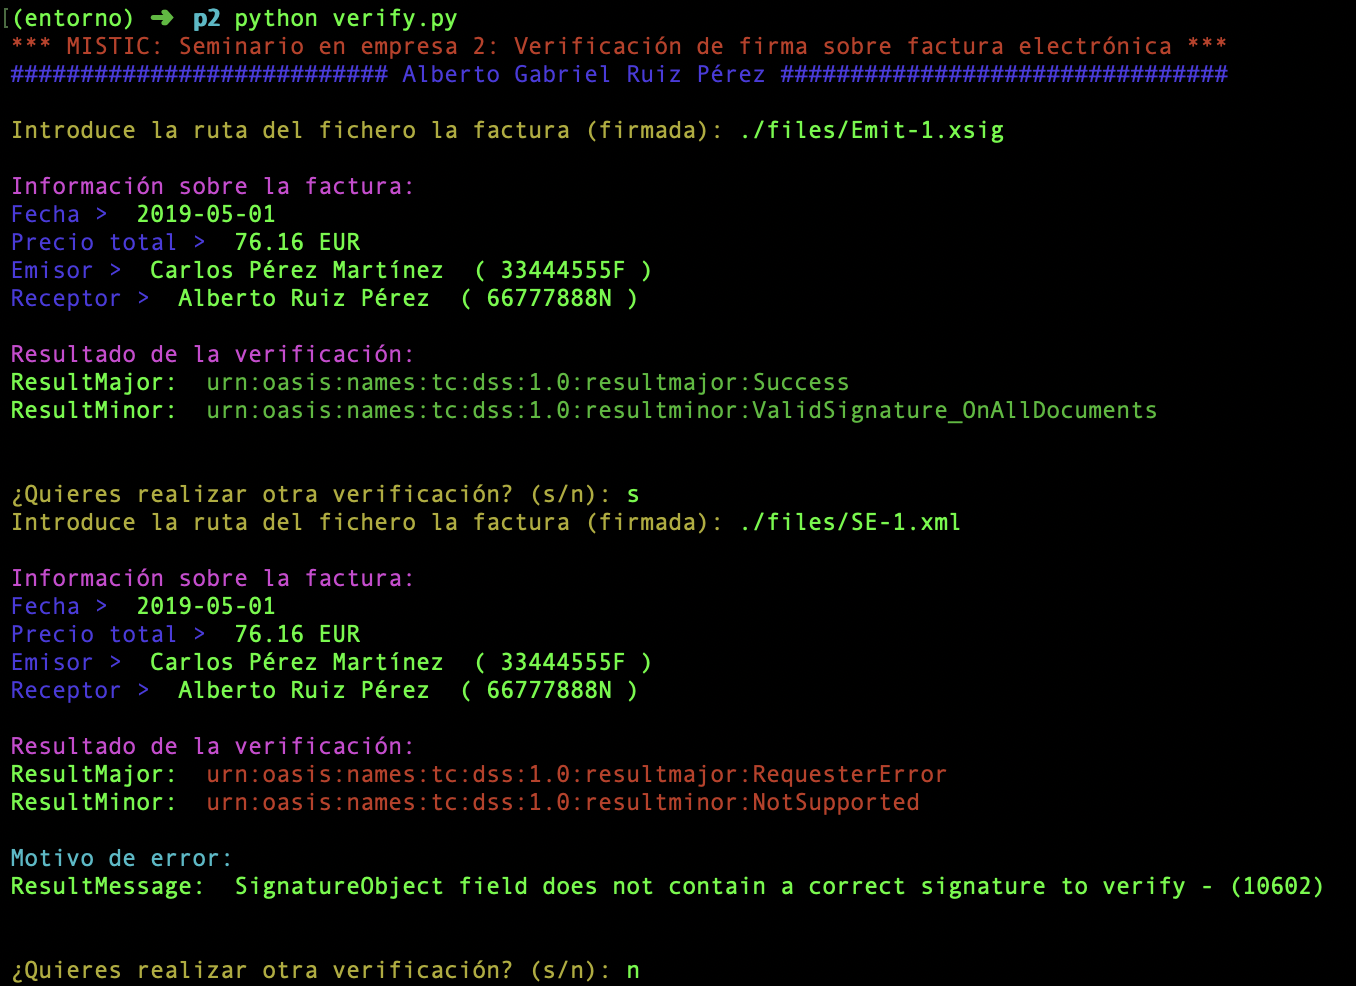
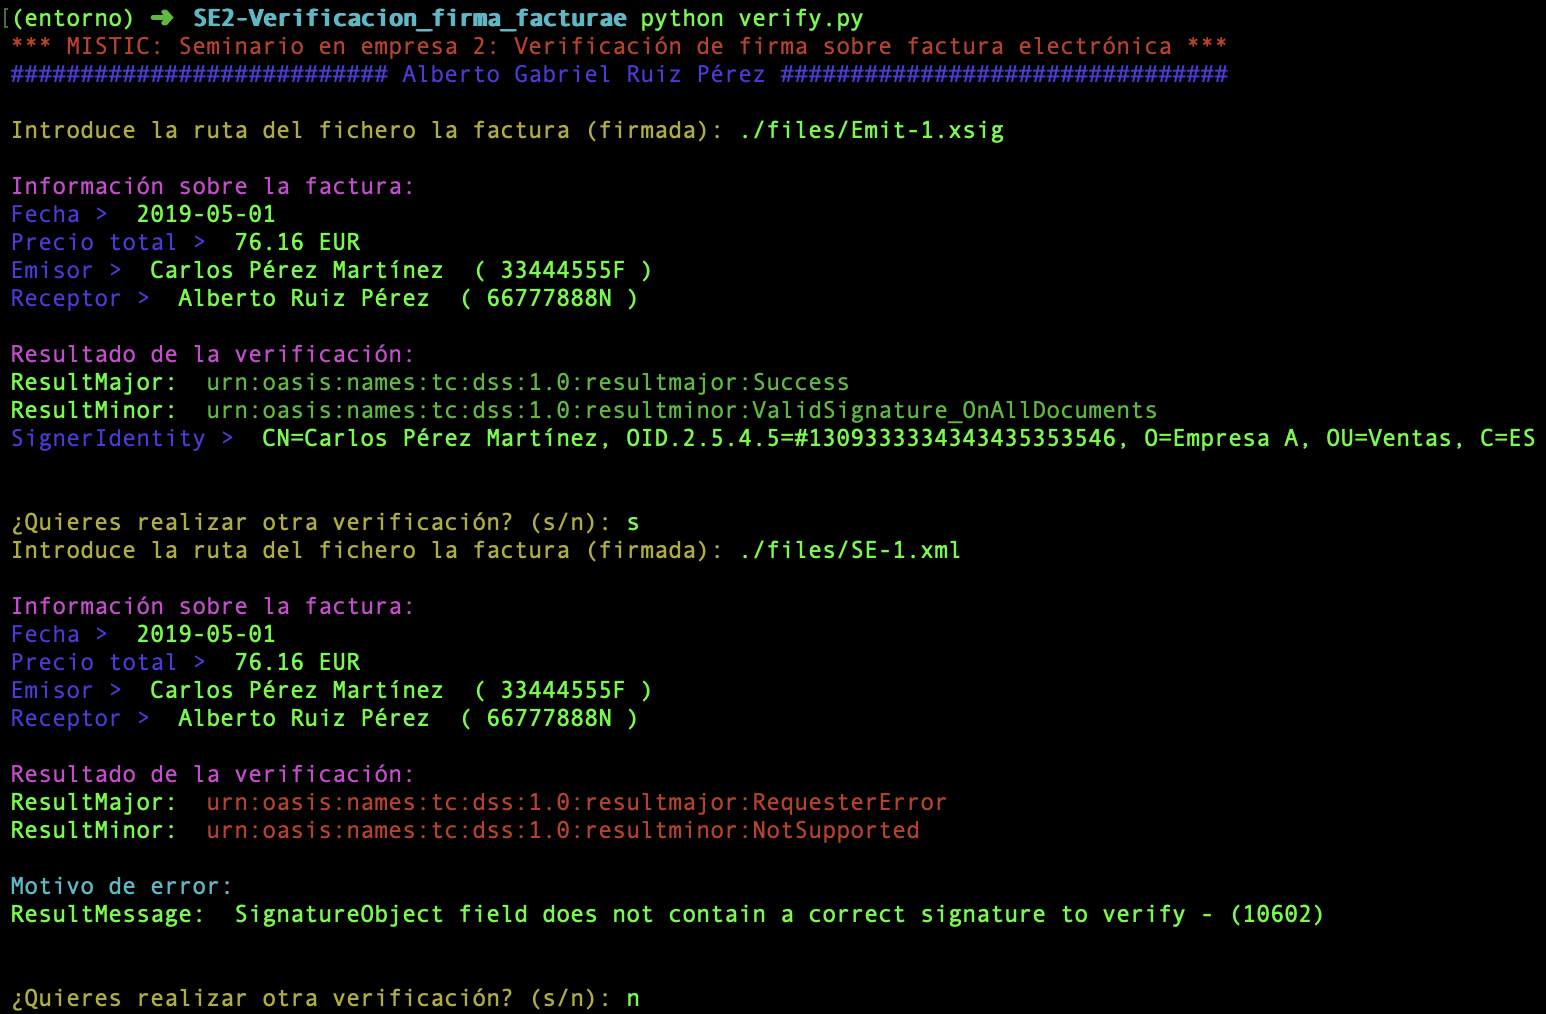
files modified

diff --git a/verify.py b/verify.py
@@ -51,10 +51,11 @@ while(True):
     # Obtenemos los resultados de verificación para mostrarlo por pantalla
     treeresponse = ET.ElementTree(ET.fromstring(response.content))
     rootresponse = treeresponse.getroot()
-    
+
     Result = rootresponse.find('{http://schemas.xmlsoap.org/soap/envelope/}Body/{http://www.docs.oasis-open.org/dss/2004/06/oasis-dss-1.0-core-schema-wd-27.xsd}VerifyResponse/{http://www.docs.oasis-open.org/dss/2004/06/oasis-dss-1.0-core-schema-wd-27.xsd}Result')
     ResultMajor = Result.find('{http://www.docs.oasis-open.org/dss/2004/06/oasis-dss-1.0-core-schema-wd-27.xsd}ResultMajor').text
     ResultMinor = Result.find('{http://www.docs.oasis-open.org/dss/2004/06/oasis-dss-1.0-core-schema-wd-27.xsd}ResultMinor').text
+
     
     print(colored("\nResultado de la verificación:",'magenta'))
 
@@ -72,6 +73,9 @@ while(True):
         ResultMessage = Result.find('{http://www.docs.oasis-open.org/dss/2004/06/oasis-dss-1.0-core-schema-wd-27.xsd}ResultMessage').text
         print (colored("\nMotivo de error: ",'cyan'))
         print ("ResultMessage: ", ResultMessage)
+    else:
+        SignerIdentity = rootresponse.find('{http://schemas.xmlsoap.org/soap/envelope/}Body/{http://www.docs.oasis-open.org/dss/2004/06/oasis-dss-1.0-core-schema-wd-27.xsd}VerifyResponse/{http://www.docs.oasis-open.org/dss/2004/06/oasis-dss-1.0-core-schema-wd-27.xsd}OptionalOutputs/{http://www.docs.oasis-open.org/dss/2004/06/oasis-dss-1.0-core-schema-wd-27.xsd}SignerIdentity').text
+        print(colored("SignerIdentity > ",'blue'), SignerIdentity)
 
     if(str(input(colored("\n\n¿Quieres realizar otra verificación? (s/n): ", 'yellow'))) != 's'):
         break 
